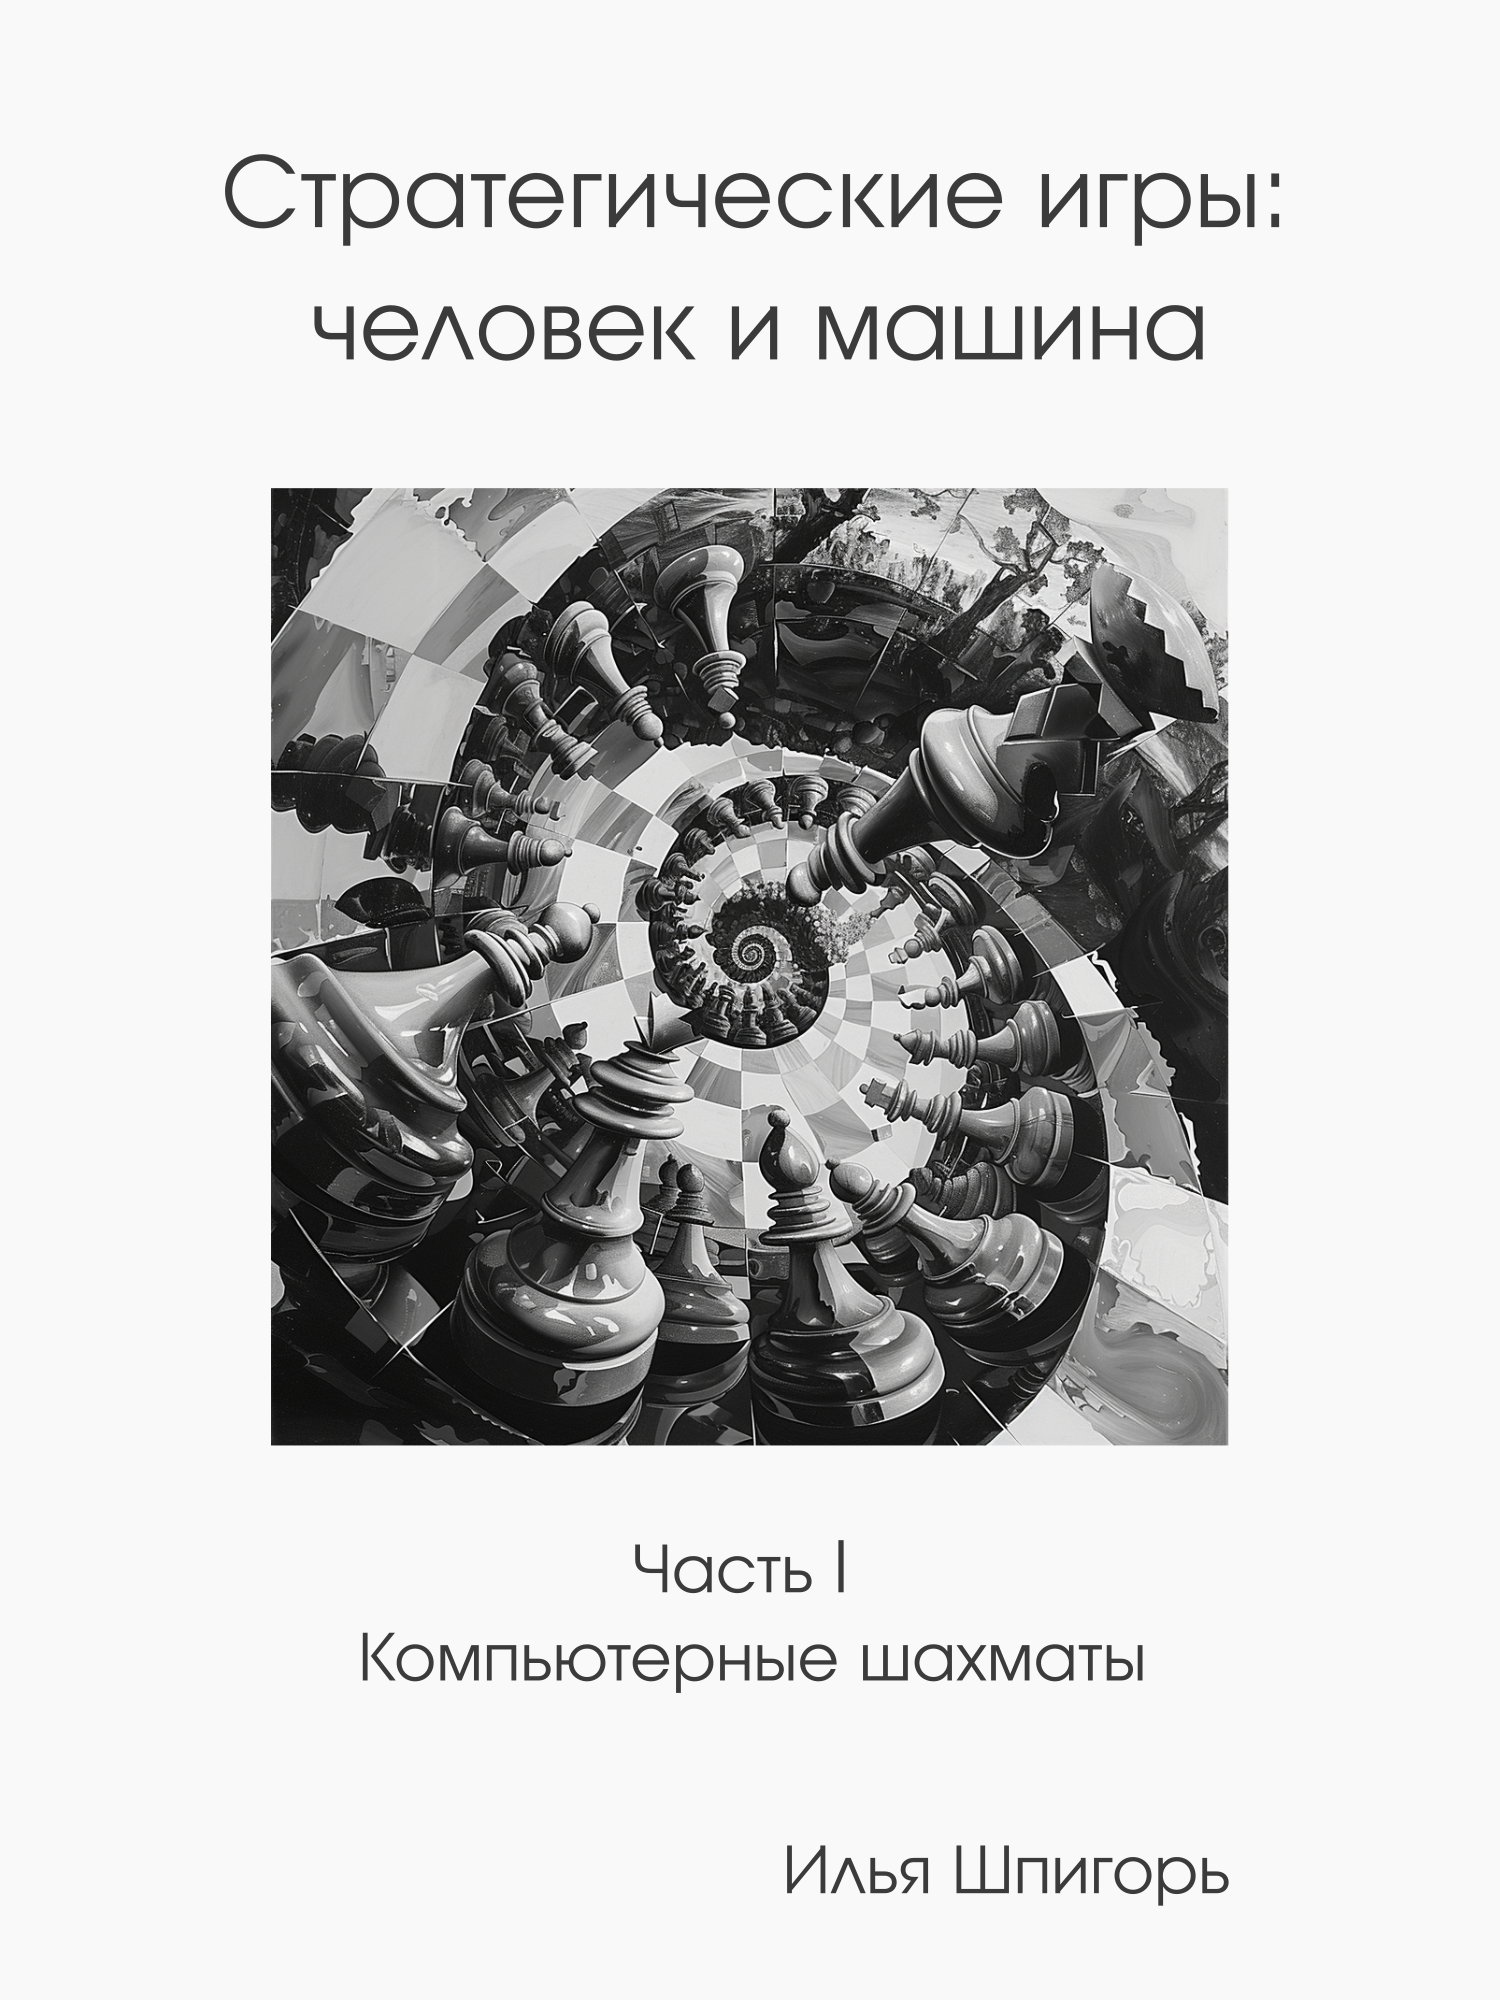
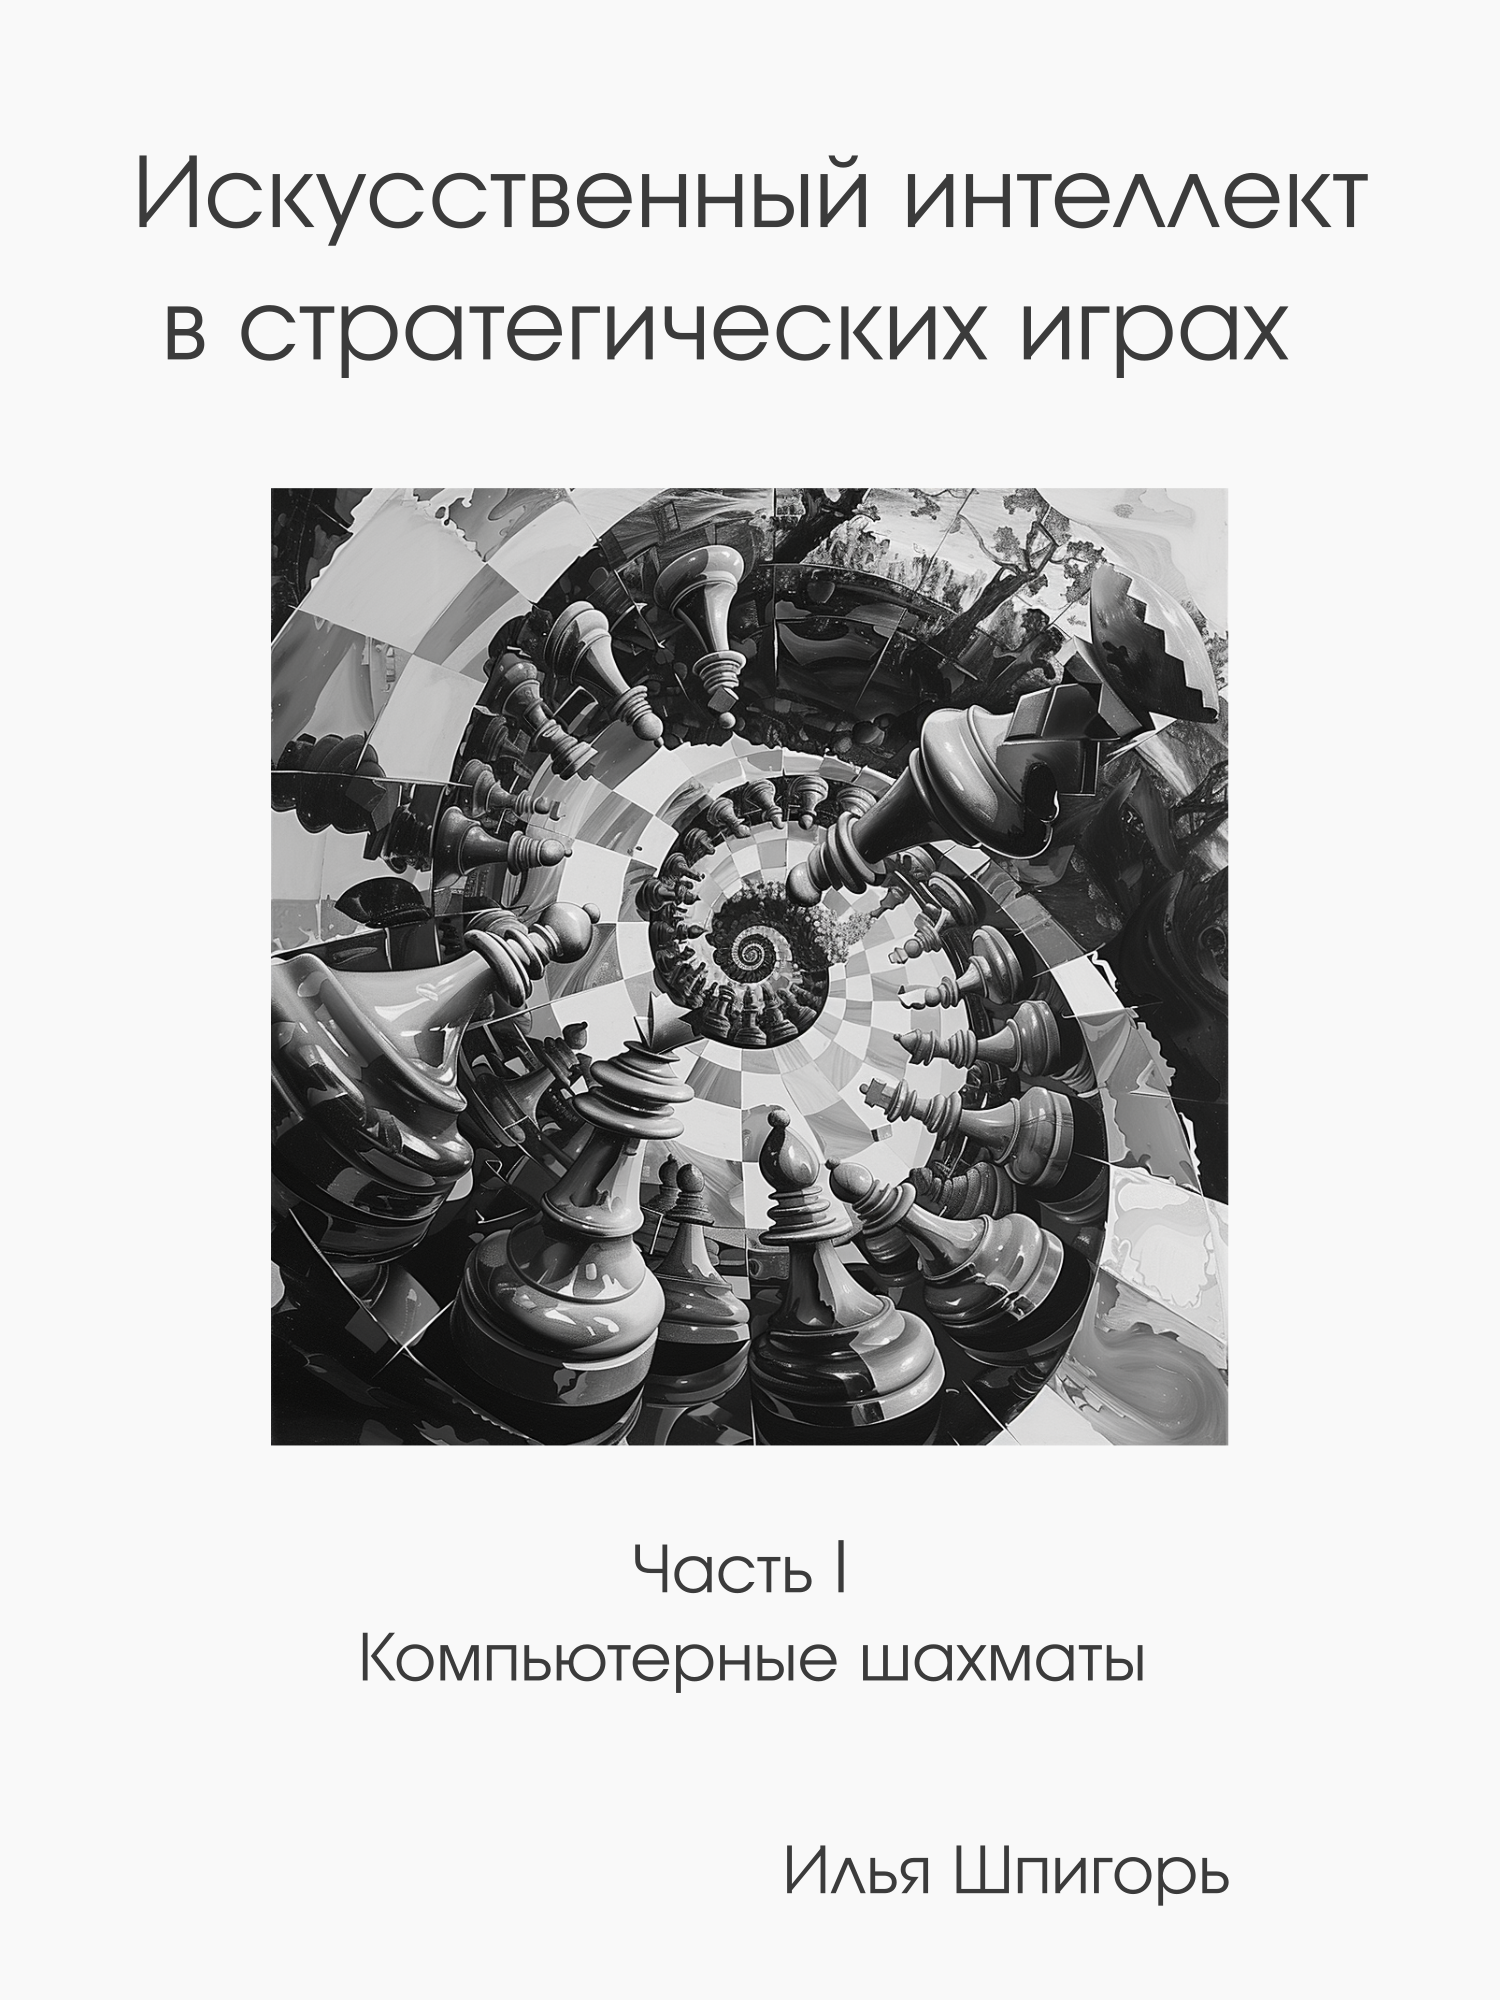
Restore the old book title "AI in strategy games"

Changed region(s): [[0.092, 0.062, 0.92, 0.124], [0.092, 0.155, 0.8587, 0.186]]

diff --git a/manuscript/finalwords.md b/manuscript/finalwords.md
@@ -12,6 +12,6 @@
 
 Это некоммерческий проект. Книга распространяется бесплатно через Leanpub. Моя цель — делиться знаниями в удобной и доступной для всех форме. Если вы хотите поддержать проект, присылайте свои замечания и исправления. Также в качестве поддержки вы можете назначить свою цену при скачивании книги на Leanpub.
 
-Большое вам спасибо за то, что вы прочитали книгу "Стратегические игры: человек и машина"!
+Большое вам спасибо за то, что вы прочитали книгу "Искусственный интеллект в стратегических играх"!
 
 {pagebreak}

diff --git a/README.md b/README.md
@@ -1,4 +1,4 @@
-# Стратегические игры: человек и машина
+# Искусственный интеллект в стратегических играх
 
 ## Часть I. Компьютерные шахматы
 
